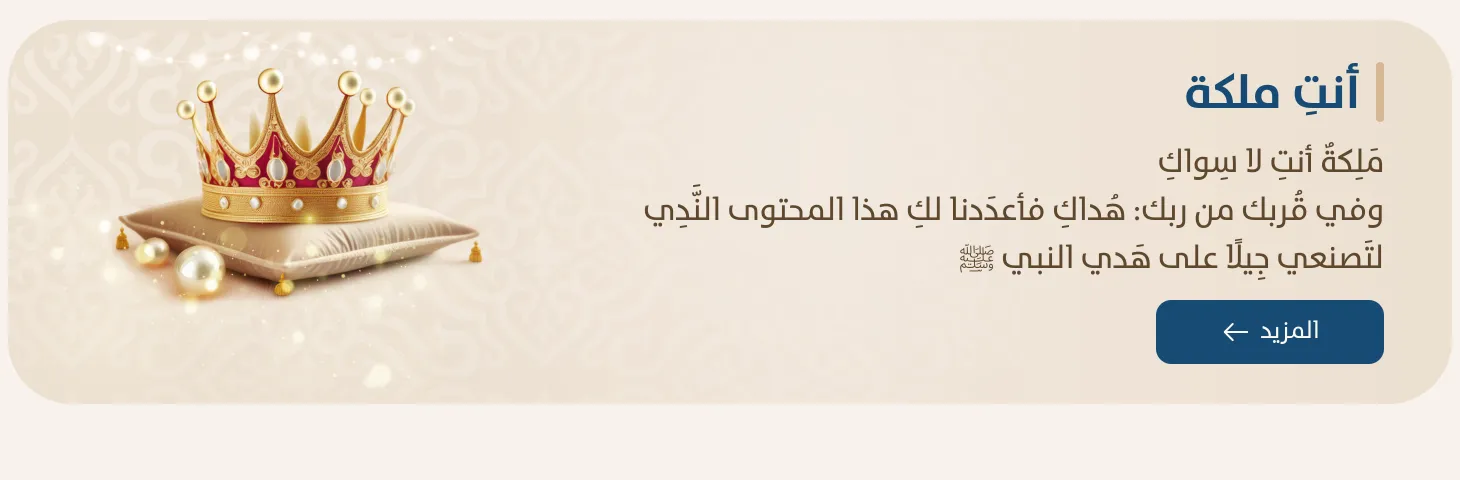
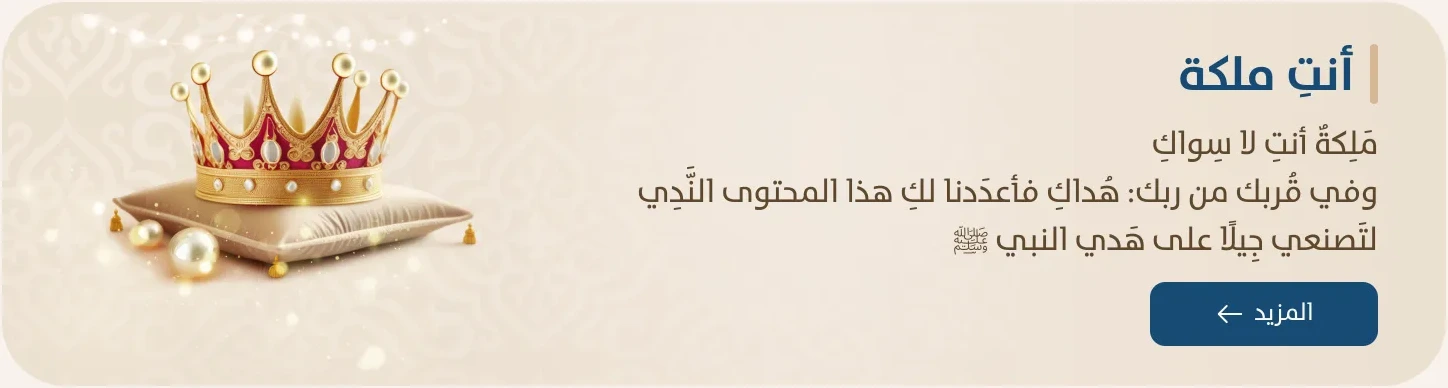
fix(home): crop the dead strip off the queen card
The `أنتِ ملكة` export carried the page background as a margin — 18px above
the card and 74 below — so the card drew a band of #F8F2ED along its bottom
edge, which on device read as the card having a second, empty half. The
asset is cropped to the card itself, and the aspect ratio is now the design's
361 x 96 rather than the export's 1460 x 480.

Verified on both platforms.

Claude-Session: https://claude.ai/code/session_019bwovAZ8t1HyrjWCL9FQLv

diff --git a/components/khazain/home/QueenCard.tsx b/components/khazain/home/QueenCard.tsx
@@ -5,8 +5,13 @@ import { KhazainRadius, KhazainShadows } from '@/constants/theme';
 
 const CARD = require('@/assets/khazain/home/hero-queen-card.webp');
 
-// "أنتِ ملكة" hero — flattened single image cropped from page-05 hi-res render.
+// "أنتِ ملكة" card — flattened single image cropped from the page-05 render.
 // Crown-on-pillow art, title, subtitle copy, and المزيد pill are all baked in.
+//
+// The export carried the page background as a margin — 18px above the card and
+// 74 below — so the card drew a dead strip of #F8F2ED along its bottom edge.
+// The asset is now cropped to the card itself, and the aspect below is the
+// design's (Figma node 2001:940 states 361 x 96) rather than the export's.
 export function QueenCard({ onPress, onMore }: { onPress?: () => void; onMore?: () => void }) {
   const handle = onPress ?? onMore;
   return (
@@ -27,7 +32,7 @@ export function QueenCard({ onPress, onMore }: { onPress?: () => void; onMore?: 
 
 const styles = StyleSheet.create({
   card: {
-    aspectRatio: 1460 / 480,
+    aspectRatio: 361 / 96,
     borderRadius: KhazainRadius.lg,
     overflow: 'hidden',
   },
